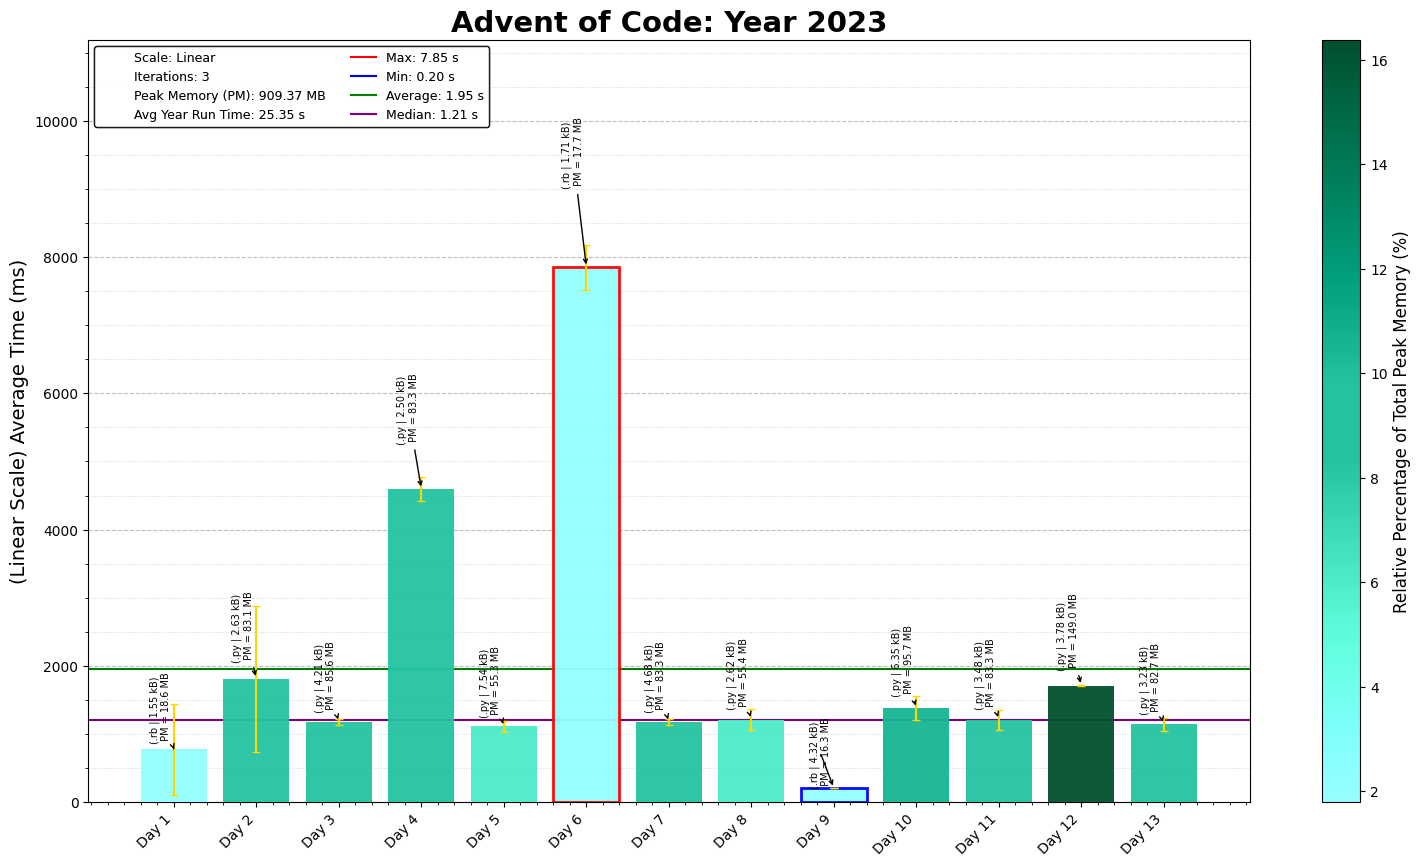
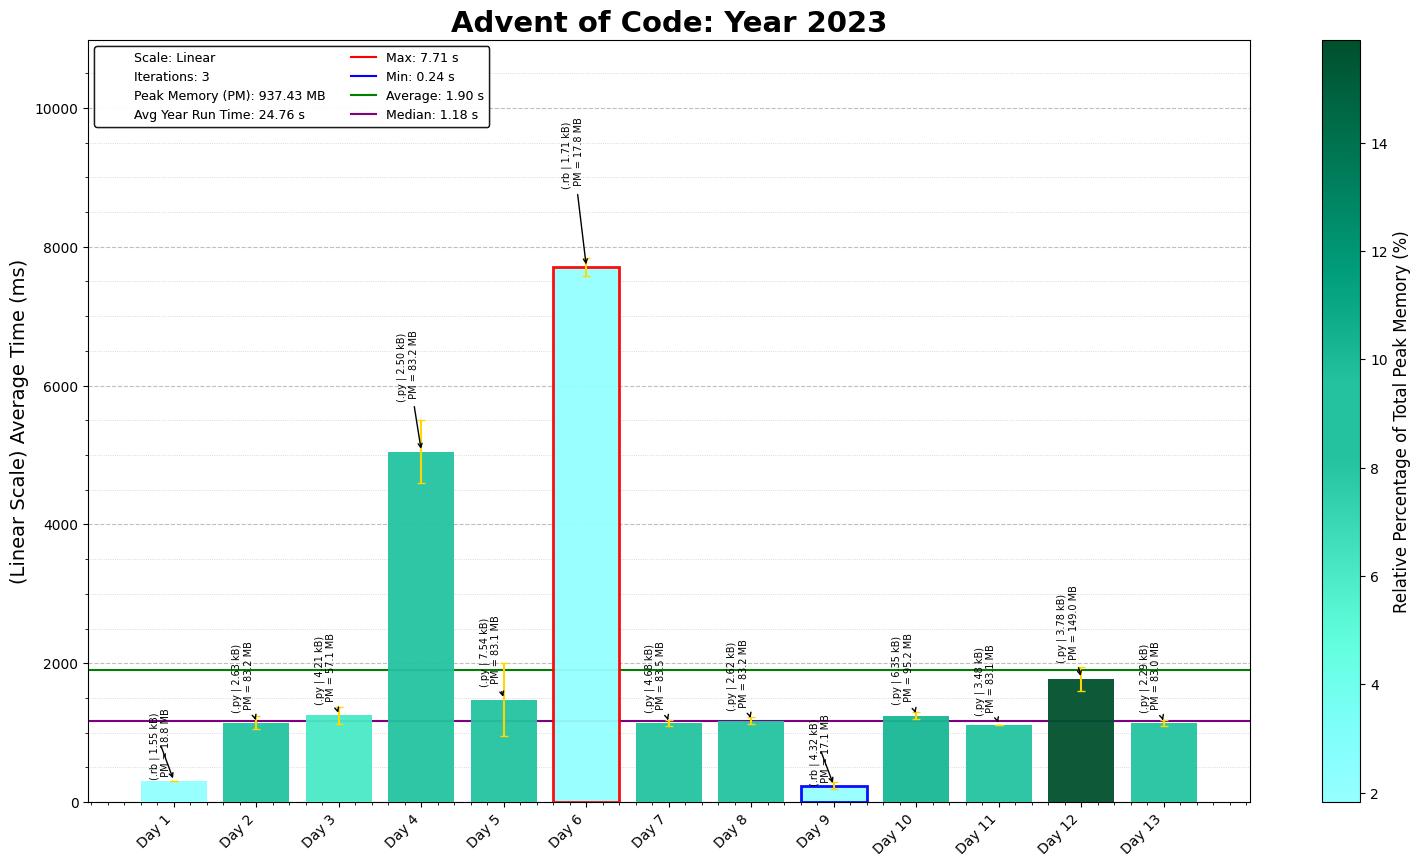
2023 Day 13 P2

diff --git a/2023/13/2023Day13.py b/2023/13/2023Day13.py
@@ -7,10 +7,11 @@ Brief: [Checking Reflections]
 
 #!/usr/bin/env python3
 
-import os, re, copy
+import os, re, copy, time
 import numpy as np
 import pandas as pd
 import matplotlib.pyplot as plt
+start_time = time.time()
 
 # Load the input data from the specified file path
 D13_file = "Day13_input.txt"
@@ -20,60 +21,46 @@ D13_file_path = os.path.join(os.path.dirname(os.path.abspath(__file__)), D13_fil
 with open(D13_file_path) as file:
     input_data = file.read().strip().split('\n\n')
 
-def check_reflection(init_pattern: list) -> int:
-    """
-    Find the reflection point in a given 2D pattern.
+def identify_reflection(init_grid: list, reflection_func: str) -> int:
+    pattern_len = len(init_grid)
+    for pos in range(1, pattern_len):
+        reflection_span = min(pos, pattern_len-pos)
+        # Define the base and reflected patterns
+        base_pattern = init_grid[pos-reflection_span:pos]
+        reflected_pattern = init_grid[pos:pos+reflection_span][::-1]
+        if reflection_func == 'find':
+            # Check if patterns are equal
+            if np.array_equal(base_pattern, reflected_pattern):
+                return pos
+        elif reflection_func == 'fix':
+            # Identify the new reflection point
+            if (base_pattern != reflected_pattern).sum() == 1:
+                return pos
+    return None
 
-    Parameters:
-        init_pattern (list): A 2D list representing the initial pattern.
+def check_reflections(grid: list, reflection_function:str = 'find') -> int:
+    """ Check for horizontal and vertical reflections in the grid. """
 
-    Returns:
-        int: The reflection point row number, or 0 if no reflection is found.
-    """
-    reflection_point = 0
+    # Check horizontal reflection
+    horizontal_reflection = identify_reflection(grid, reflection_function)
+    if horizontal_reflection:
+        return horizontal_reflection * 100
 
-    # Transpose the grid for easier row comparisons
-    transposed_pattern = np.transpose(init_pattern)
-    pattern_length = len(transposed_pattern)
+    # Check vertical reflection (transpose for column comparison)
+    vertical_reflection = identify_reflection(grid.T, reflection_function)
+    if vertical_reflection:
+        return vertical_reflection
+    return 0
 
-    for row_no in range(pattern_length - 1):
-        current_row = transposed_pattern[row_no]
-        next_row = transposed_pattern[row_no + 1]
+reflections_p1, reflections_p2 = 0, 0
 
-        # Check if the current row and the next row are identical
-        if np.array_equal(current_row, next_row):
-            reflection_length = pattern_length - (row_no + 1)
-
-            # Calculate slice indices for the base and reflected patterns
-            base_start = max(0, (row_no + 1) - reflection_length)
-            base_end = row_no + 1
-            reflected_start = row_no + 1
-            reflected_end = reflected_start + (base_end - base_start)
-
-            # Define the base and reflected patterns
-            base_pattern = transposed_pattern[base_start:base_end]
-            reflected_pattern = transposed_pattern[reflected_start:reflected_end]
-
-            # Check if the base pattern matches the reflected pattern
-            if np.array_equal(base_pattern, reflected_pattern[::-1]):
-                reflection_point = reflected_start
-                break
-
-    return reflection_point
-
-test_input_1 = ['#.##..##.\n..#.##.#.\n##......#\n##......#\n..#.##.#.\n..##..##.\n#.#.##.#.', '#...##..#\n#....#..#\n..##..###\n#####.##.\n#####.##.\n..##..###\n#....#..#']
-test_input_2 = ['#.##..##.\n..#.##.#.\n##......#\n##......#\n..#.##.#.\n..##..##.\n#.#.##.#.', '#...##..#\n#....#..#\n..##..###\n#####.##.\n#####.##.\n..##..###\n#....#..#', '.#.##.#.#\n.##..##..\n.#.##.#..\n#......##\n#......##\n.#.##.#..\n.##..##.#', '#..#....#\n###..##..\n.##.#####\n.##.#####\n###..##..\n#..#....#\n#..##...#', '#.##..##.\n..#.##.#.\n##..#...#\n##...#..#\n..#.##.#.\n..##..##.\n#.#.##.#.']
-
-row_reflections, col_reflections = 0, 0
 for grid in input_data[:]:
     grid_array = np.array([list(row) for row in grid.split('\n')])
+    reflections_p1 += check_reflections(grid_array, 'find')
+    reflections_p2 += check_reflections(grid_array, 'fix')
 
-    # Check Vertical Reflection
-    reflection_point = check_reflection(grid_array)
-    col_reflections += reflection_point
-    if reflection_point == 0: # No Vertical Reflection
-        transposed_grid = np.transpose(grid_array)
-        # Check Horizontal Reflection
-        row_reflections += (100 * check_reflection(transposed_grid))
+print("Part 1:", reflections_p1)
+print("Part 2:", reflections_p2)
 
-print("Part 1:", (col_reflections + row_reflections))
+# print(f"Execution Time = {time.time() - start_time:.5f}s")
+
